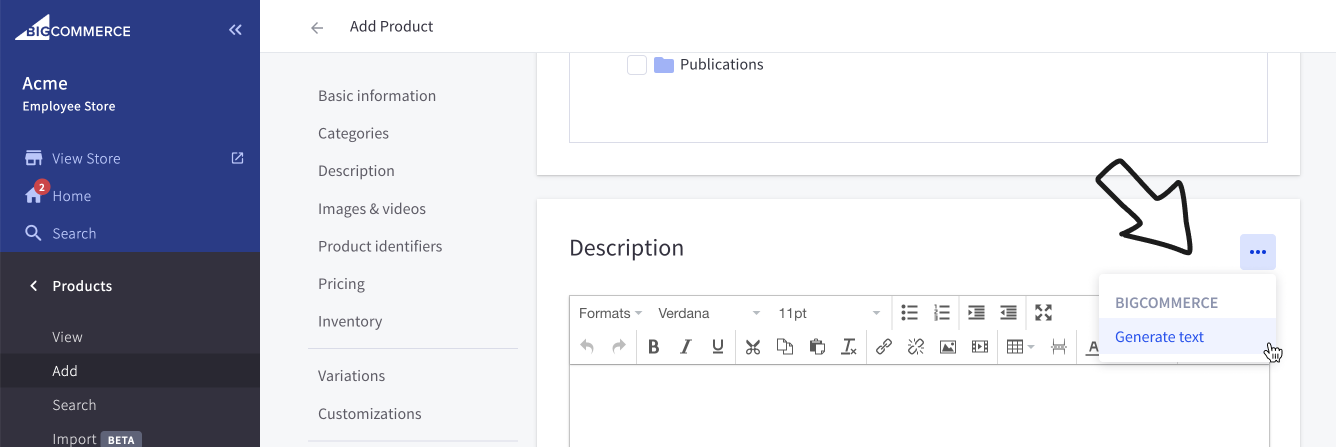
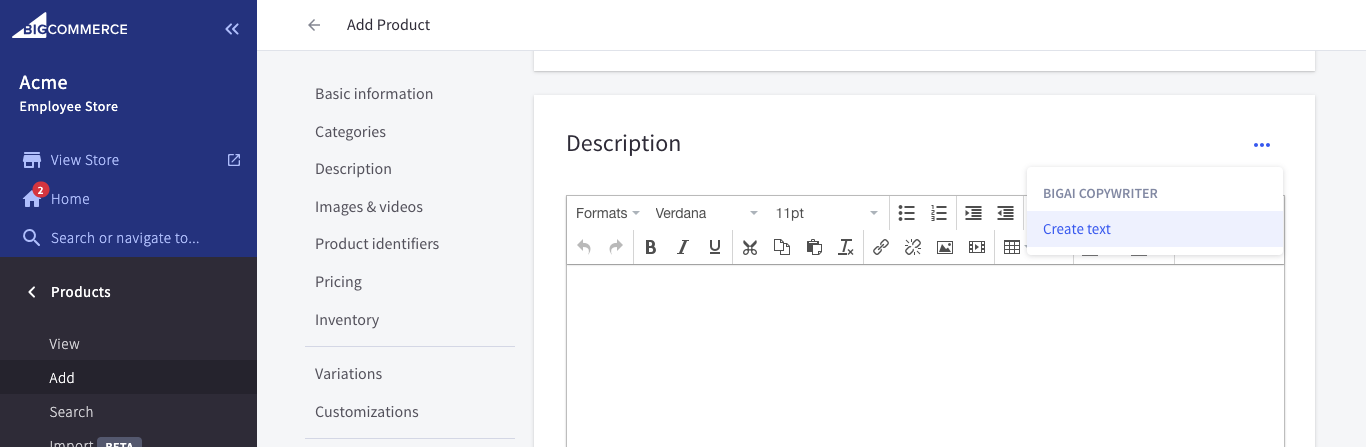
feat: DATA-11537 Updates to copies

diff --git a/src/app/home-page.tsx b/src/app/home-page.tsx
@@ -27,15 +27,18 @@ const HomePage = () => (
         />
         BigAI Copywriter
       </H1>
-      <Panel header="Generate eye-catching descriptions in a flash">
+      <Panel header="Create product descriptions">
         <Text>
-          Using the product information from your catalog, BigAI Copywriter creates product descriptions in limitless styles and voices
-          designed to drive traffic to your storefront and generate sales.
+            BigAI Copywriter app extends the capabilities of the existing Description section of the v3 Add/Edit Product experience.
         </Text>
         <H4>How to generate</H4>
-        <Text>
-          Open an existing product or create a new one. Under description, click on the 
-          &quot;Generate text&quot; action and check the result.
+        <Text as="span">
+            <Text as="span" bold={true}>
+                You will now see a new button in the Description section when adding or editing a product.
+            </Text>
+            <Text as="span">
+                Click the Action button (⋯) and select Create text. Set your desired settings, then click Generate to create your text. The generated text will appear in the Results window.
+            </Text>
         </Text>
         <Image
           src="/images/example.png"

diff --git a/src/lib/appExtensions.ts b/src/lib/appExtensions.ts
@@ -107,10 +107,10 @@ const createAppExtensionMutation = () => ({
       model: 'PRODUCT_DESCRIPTION',
       url: '/productDescription/${id}',
       label: {
-        defaultValue: 'Generate text',
+        defaultValue: 'Create text',
         locales: [
           {
-            value: 'Generate text',
+            value: 'Create text',
             localeCode: 'en-US',
           },
         ],

diff --git a/src/app/productDescription/[productId]/form.tsx b/src/app/productDescription/[productId]/form.tsx
@@ -134,7 +134,7 @@ export default function Form({ product }: { product: Product | NewProduct }) {
             variant="secondary"
             onClick={() => void handleGenerateDescription()}
           >
-            Generate
+            Write
           </Button>
         </FlexItem>
       </FlexItem>
